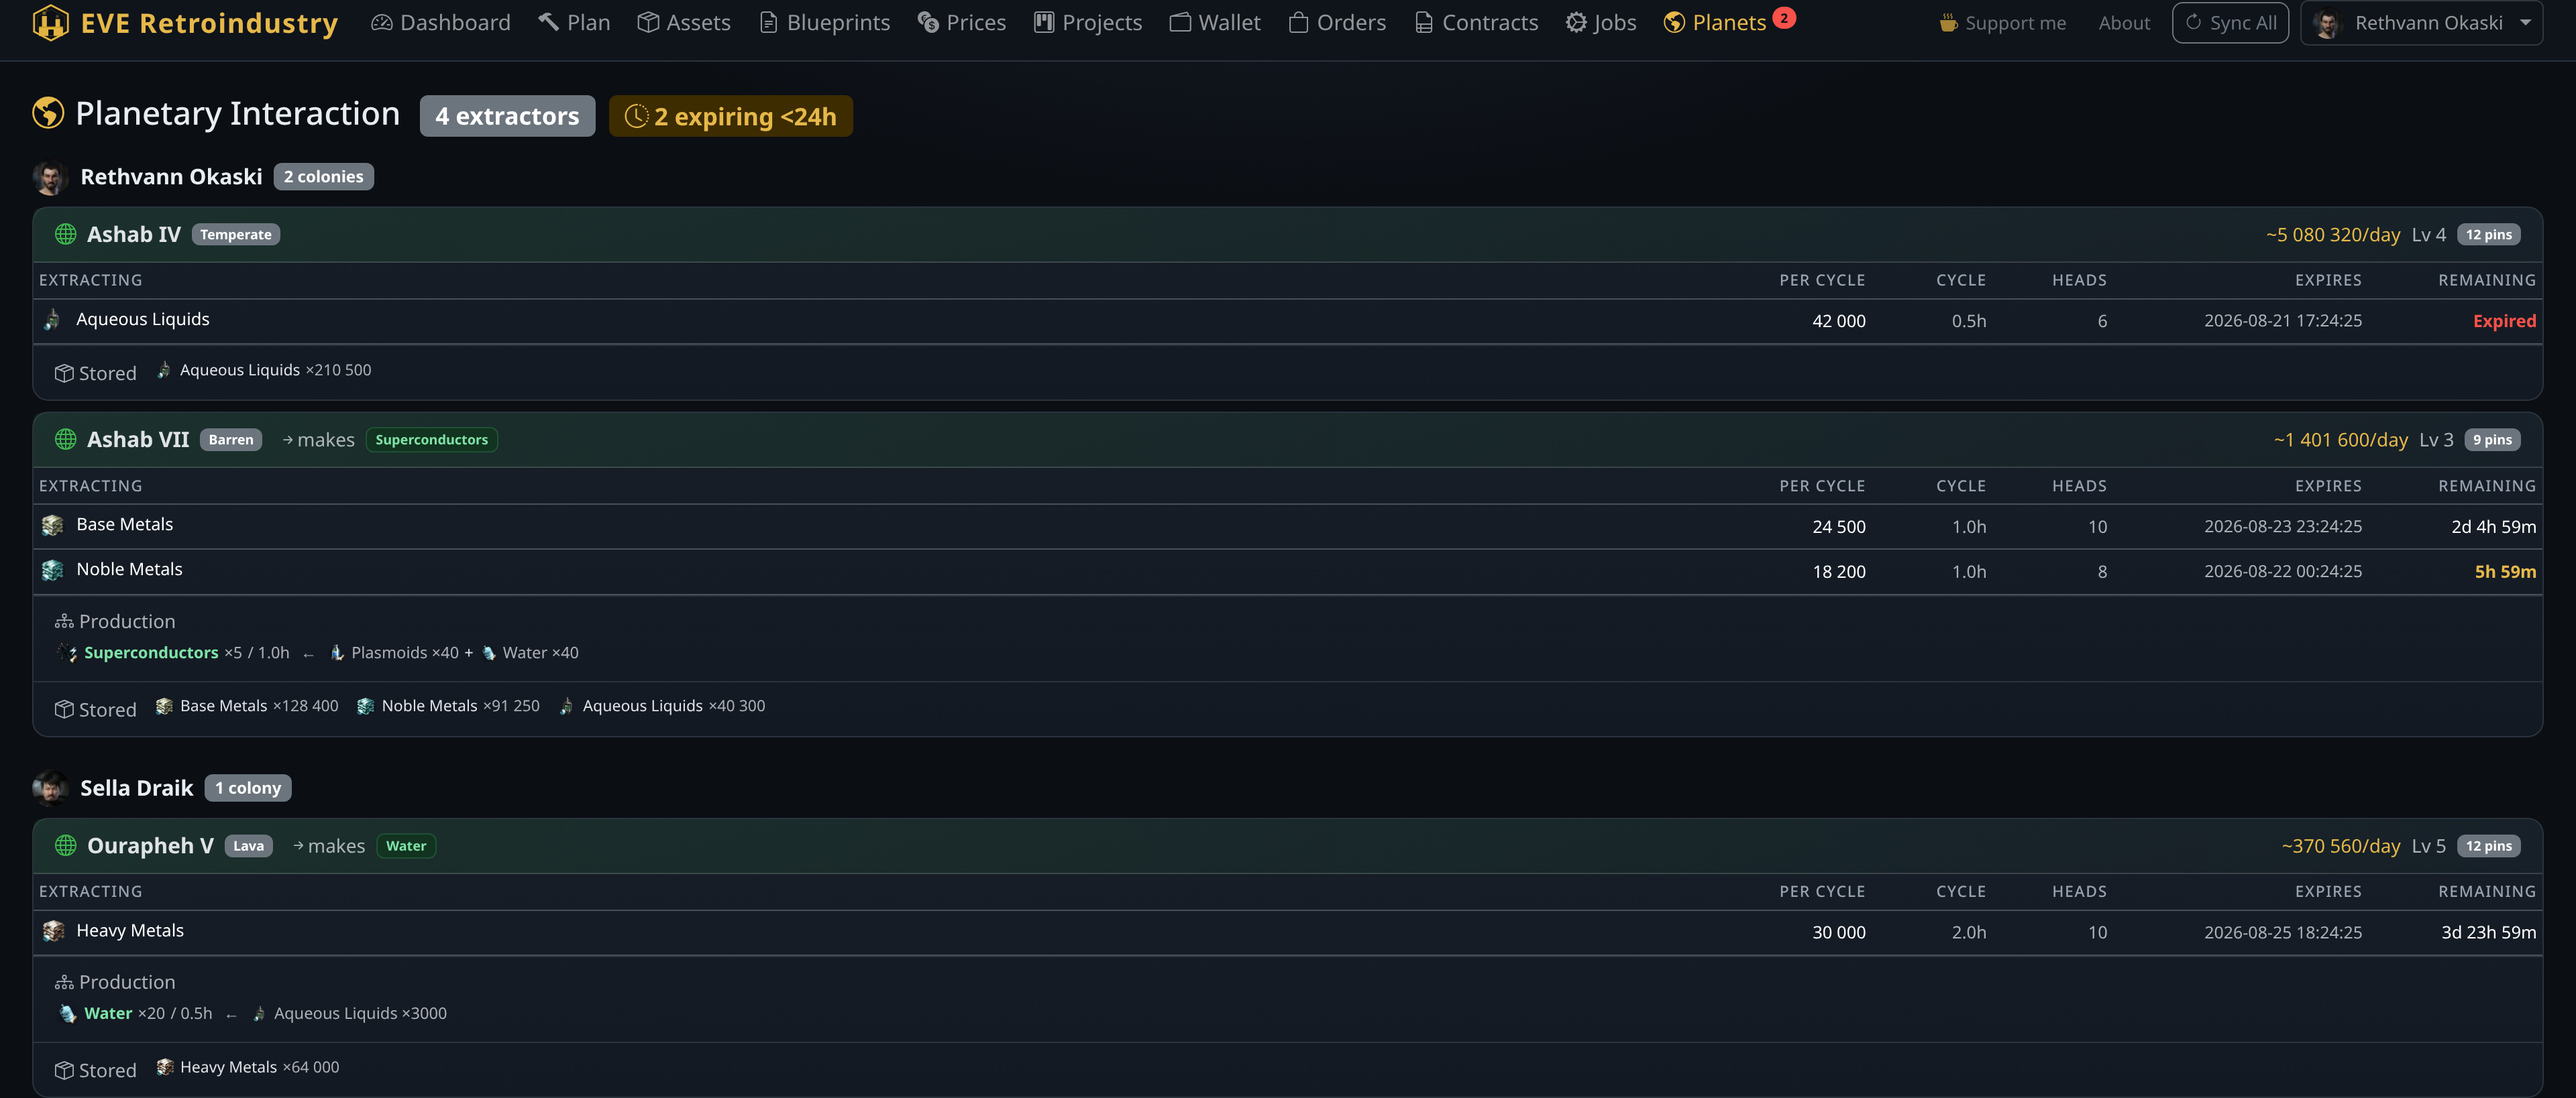
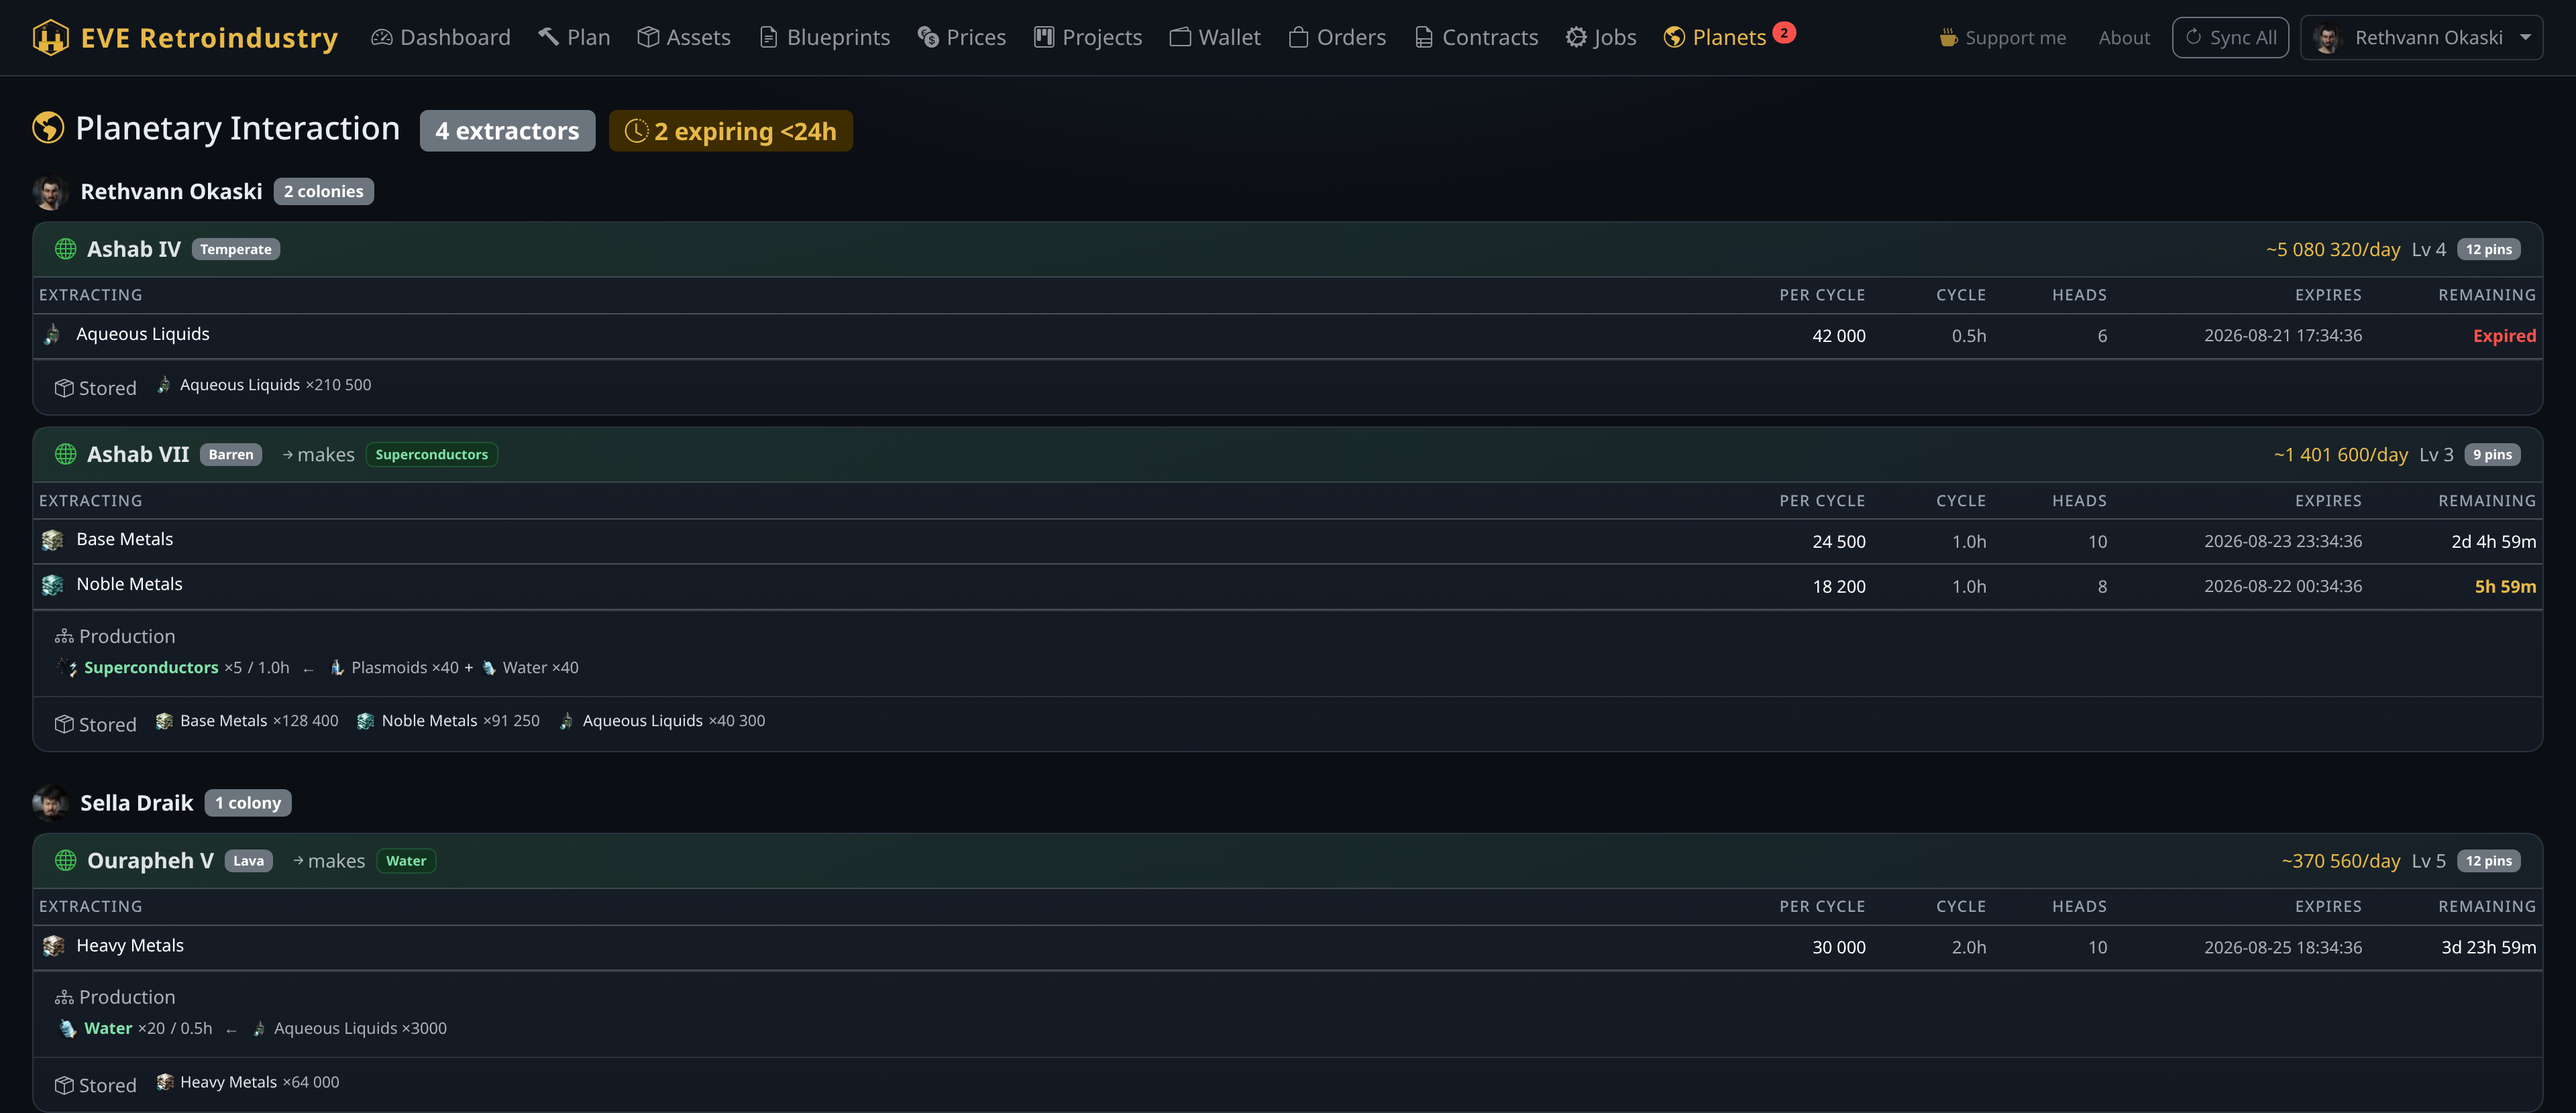
Screenshots: stop trimming the top off the navbar
The reported cut-off header was real and mine, not a link-preview artefact
as I first concluded: the generator finished every capture with a plain
`magick -fuzz 3% -trim`, which strips uniform border on ALL four edges.
The navbar band is #0f141b and the page behind it #0b0e13 — 2.4 % apart,
inside the 3 % fuzz — so ImageMagick could not tell the navbar's own top
padding from page background and shaved it off. The logo ended up flush
against the top edge, which is why the header did not look like the
running app.

Trimming is now limited to the bottom edge (trim:edges=south), which is
the only one that ever needed it: the capture is a fixed 1500 px tall
window, so the empty space is below the content, and the width is exactly
SHOT_WIDTH. Every screenshot is 22 device pixels taller as a result —
exactly the padding that was being lost.

diff --git a/scripts/gen_demo_screenshots.py b/scripts/gen_demo_screenshots.py
@@ -390,7 +390,15 @@ def main() -> None:
              f"--virtual-time-budget={vtb}", f"--window-size={SHOT_WIDTH},{h}",
              f"--screenshot={out}", url],
             check=False, stdout=subprocess.DEVNULL, stderr=subprocess.DEVNULL)
-        subprocess.run(["magick", out, "-fuzz", "3%", "-trim", "+repage", out],
+        # Trim the EMPTY SPACE BELOW the content only. A plain -trim also eats
+        # the top, because the navbar band (#0f141b) is just 2.4 % away from the
+        # page background (#0b0e13) and the fuzz is 3 % — so ImageMagick treated
+        # the navbar's own padding as border and shaved it off, leaving the logo
+        # flush against the top edge. The header then looked cut compared to the
+        # running app, which is what a tester reported. Left/right never needed
+        # trimming anyway: the capture is exactly SHOT_WIDTH wide.
+        subprocess.run(["magick", out, "-fuzz", "3%",
+                        "-define", "trim:edges=south", "-trim", "+repage", out],
                        check=False, stdout=subprocess.DEVNULL, stderr=subprocess.DEVNULL)
         print("wrote", out)
 
